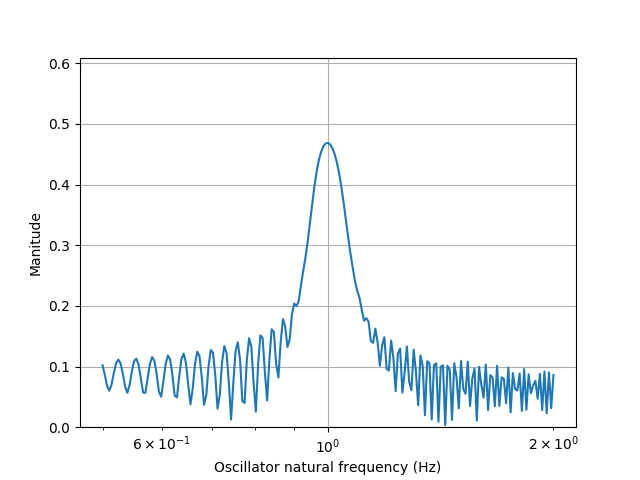
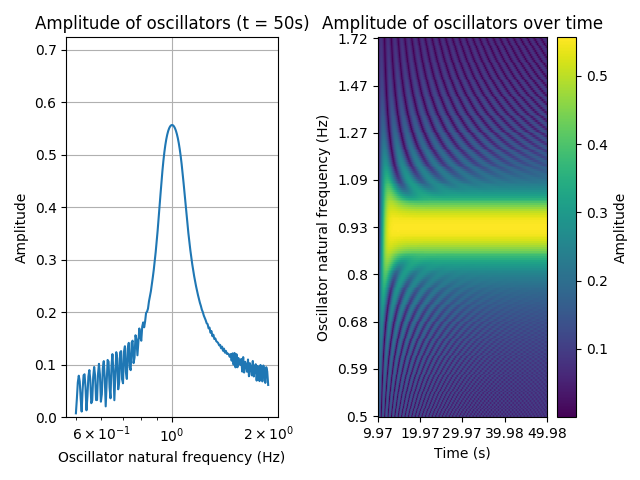
updates example 1

diff --git a/tfgrfnn/ode_functions.py b/tfgrfnn/ode_functions.py
@@ -1,0 +1,121 @@
+import tensorflow as tf
+import numpy as np
+import tfgrfnn as tg
+
+def xdot_ydot(t, xt_yt, connmats_state, connections, sources_state, alpha=None, beta1=None, beta2=None, epsilon=None, freqs= None):
+
+    omega = tf.constant(2*np.pi, dtype=tf.float32)
+
+    xt, yt = tf.split(xt_yt, 2, axis=1)
+    minusyt_plusxt = tf.concat([tf.multiply(-1.0,yt), xt], axis=1)
+
+    x2tplusy2t = tf.add(tf.pow(xt, 2),
+                        tf.pow(yt, 2))
+    x2tplusy2t_x2tplusy2t = tf.concat([x2tplusy2t, 
+                                x2tplusy2t], axis=1)
+    x2tplusy2tsquared_x2tplusy2tsquared = tf.pow(x2tplusy2t_x2tplusy2t, 2)
+
+    xtnew_ytnew = tf.add_n([tf.multiply(alpha, xt_yt),
+                            tf.multiply(omega, minusyt_plusxt),
+                            tf.multiply(beta1, tf.multiply(xt_yt, x2tplusy2t_x2tplusy2t)),
+                            tf.divide(
+                                tf.multiply(tf.multiply(epsilon, beta2), 
+                                    tf.multiply(xt_yt, x2tplusy2tsquared_x2tplusy2tsquared)),
+                                tf.subtract(tf.constant(1.0, dtype=tf.float32), 
+                                    tf.multiply(epsilon, x2tplusy2t_x2tplusy2t)))])
+
+    csrt_csit = tf.add_n([tf.multiply(connections[iconn].learnparams['weight'], compute_input(connmat_state, 
+                            sources_state[connections[iconn].sourceintid], 
+                            connections[iconn].learnparams['learntypeint']))
+                        for iconn, connmat_state in enumerate(connmats_state)]) if connmats_state else 0
+            
+    dxdt_dydt = tf.multiply(freqs, tf.add(xtnew_ytnew, csrt_csit))
+    
+    return dxdt_dydt
+
+
+def compute_input(connmat_state, source_state, learntypeint):
+
+    def compute_input_nolearning(srt_sit=source_state, crt_cit=connmat_state):
+
+        srt, sit = tf.split(srt_sit, 2, axis=1)
+        crt, cit = tf.split(crt_cit, 2, axis=1)
+        csrt = tf.matmul(srt, crt) - tf.matmul(sit, cit)
+        csit = tf.matmul(sit, crt) + tf.matmul(srt, cit)
+
+        csrt_csit = tf.concat([csrt, csit], axis=1)
+
+        return csrt_csit 
+
+    def compute_input_1freq(srt_sit=source_state, crt_cit=connmat_state):
+
+        srt, sit = tf.split(srt_sit, 2, axis=1)
+        crt, cit = tf.split(crt_cit, 2, axis=1)
+        csrt = tf.matmul(srt, crt) - tf.matmul(sit, cit)
+        csit = tf.matmul(sit, crt) + tf.matmul(srt, cit)
+
+        csrt_csit = tf.concat([csrt, csit], axis=1)
+
+        return csrt_csit 
+
+    csrt_csit = tf.switch_case(learntypeint,
+                                branch_fns={0: compute_input_nolearning,
+                                            1: compute_input_1freq})
+
+    return csrt_csit
+
+def crdot_cidot(t, xst_yst, crt_cit, xtt_ytt, learnparams):
+
+    def nolearning(t=t, xst_yst=xst_yst, crt_cit=crt_cit, xtt_ytt=xtt_ytt, learnparams=learnparams):
+        
+        return tf.constant(0, dtype=tf.float32, shape=crt_cit.shape)
+    '''
+    def learn_1freq(t=t, xst_yst=xst_yst, crt_cit=crt_cit, xtt_ytt=xtt_ytt, learnparams=learnparams):
+        
+        lambda_ = learnparams['lambda_']
+        mu1 = learnparams['mu1']
+        mu2 = learnparams['mu2']
+        kappa = learnparams['kappa']
+        epsilon = learnparams['epsilon']
+        freqss = tf.expand_dims(learnparams['freqss'], 0)
+        freqst = tf.expand_dims(learnparams['freqst'], -1)
+
+        xst, yst = tf.split(xst_yst, 2, axis=0)
+        crt, cit = tf.split(crt_cit, 2, axis=0)
+        xtt, ytt = tf.split(xtt_ytt, 2, axis=0)
+
+        cr2tplusci2t = tf.add(tf.pow(crt, 2),
+                            tf.pow(cit, 2))
+        cr2tplusci2t_cr2tplusci2t = tf.concat([cr2tplusci2t, 
+                                    cr2tplusci2t], axis=0)
+        cr2tplusci2tsquared_cr2tplusci2tsquared = tf.pow(cr2tplusci2t_cr2tplusci2t, 2)
+
+        dcrdt_dcidt = tf.add_n([tf.multiply(lambda_, crt_cit),
+                            tf.multiply(mu1, tf.multiply(crt_cit, cr2tplusci2t_cr2tplusci2t)),
+                            tf.divide(tf.multiply(tf.multiply(epsilon, mu2), 
+                                        tf.multiply(crt_cit, cr2tplusci2tsquared_cr2tplusci2tsquared)),
+                                    tf.subtract(tf.constant(1.0, dtype=tf.float32), 
+                                        tf.multiply(epsilon, cr2tplusci2t_cr2tplusci2t))),
+                            tf.multiply(kappa, tf.concat([tf.add(tf.matmul(tf.expand_dims(xtt,-1), 
+                                                                            tf.expand_dims(xst,0)), 
+                                                                tf.matmul(tf.expand_dims(ytt,-1), 
+                                                                            tf.expand_dims(yst,0))),
+                                                            tf.add(tf.matmul(tf.expand_dims(ytt,-1), 
+                                                                            tf.expand_dims(xst,0)),
+                                                                tf.matmul(tf.expand_dims(-xtt,-1), 
+                                                                            tf.expand_dims(yst,0)))], axis=0))])
+
+        fmat = tf.add(tf.tile(freqst, tf.shape(freqss)), 
+                tf.tile(freqss, tf.shape(freqst)))
+        dcrdt_dcidt = tf.multiply(tf.divide(tf.concat([fmat, fmat], axis=0), 2), dcrdt_dcidt)
+
+        return dcrdt_dcidt
+    '''
+
+    learntype = learnparams['learntypeint']
+
+    dcrdt_dcidt = tf.switch_case(learntype,
+                                    branch_fns={0: nolearning})
+                                                #1: learn_1freq})
+
+    return dcrdt_dcidt

diff --git a/tfgrfnn/example1.py b/tfgrfnn/example1.py
@@ -3,15 +3,16 @@ import tensorflow as tf
 import tfgrfnn as tg
 import matplotlib.pyplot as plt
 
+
 # simulation duration values
-dur = 50.0
+dur = 50
 dt = 0.025
 fs = int(1/dt)
 time = tf.range(dur, delta=dt, dtype=tf.float32)
 # GrFNN network values and parameters
 N = 201
-freqs = tf.constant(np.logspace(np.log10(0.5),np.log10(2.0),N),dtype=tf.float32)
-initconds = tf.constant(0.1+1j*0.0, dtype=tf.complex64, shape=(N,))
+freqs = tf.constant(np.logspace(np.log10(0.5), np.log10(2.0),N), dtype=tf.float32)
+initconds = tf.constant(0.01+1j*0.0, dtype=tf.complex64, shape=(N,))
 params_dict = {'alpha':tf.constant(0.0, dtype=tf.float32), 
              'beta1':tf.constant(-1.0, dtype=tf.float32),
              'beta2':tf.constant(-1.0, dtype=tf.float32),
@@ -37,15 +38,34 @@ s1 = tg.stimulus(name = 's1',
                 values = stim_values,
                 fs = fs)
 # connect stimulus and oscillators
-l1 = tg.connect(source=s1, target=l1, matrixinit=tf.constant(1.0+1j*0.0, dtype=tf.complex64, shape=(1,N)))
+l1 = tg.connect(source=s1, target=l1, 
+                matrixinit=tf.constant(1.0+1j*0.0, 
+                                        dtype=tf.complex64, shape=(1,N)))
 # define the model
 GrFNN = tg.Model(name='GrFNN', layers=[l1], stim=s1)
 # integrate 
 GrFNN = GrFNN.integrate()
+
+
 # plot results
+nxticks = 6
+nyticks = 10
+plt.subplot(1,2,1)
 plt.semilogx(GrFNN.layers[0].params['freqs'],np.abs(GrFNN.layers[0].states[0,:,-1]))
 plt.ylim([0, 1.3*np.max(np.abs(GrFNN.layers[0].states[0,:,-1]))])
 plt.grid()
 plt.xlabel('Oscillator natural frequency (Hz)')
-plt.ylabel('Manitude')
+plt.ylabel('Amplitude')
+plt.title('Amplitude of oscillators (t = '+str(dur)+'s)')
+ax = plt.subplot(1,2,2)
+plt.imshow(np.abs(GrFNN.layers[0].states[0]), aspect = 'auto')
+ax.set_xticklabels([str(round(float(label),2)) for label in GrFNN.time.numpy()\
+        [np.round(np.linspace(0,len(GrFNN.time)-1,nxticks)).astype(int)]])
+ax.set_yticklabels([str(round(float(label),2)) for label in GrFNN.layers[0].params['freqs'].numpy()[::-1]\
+        [np.round(np.linspace(0,len(GrFNN.layers[0].params['freqs'])-1,nyticks)).astype(int)]])
+plt.xlabel('Time (s)')
+plt.ylabel('Oscillator natural frequency (Hz)')
+plt.colorbar().set_label('Amplitude')
+plt.title('Amplitude of oscillators over time')
+plt.tight_layout()
 plt.savefig('example1.png')
